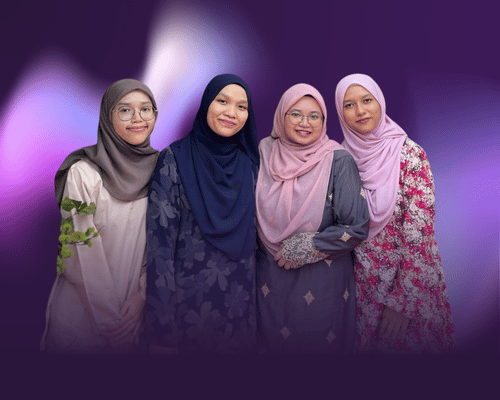
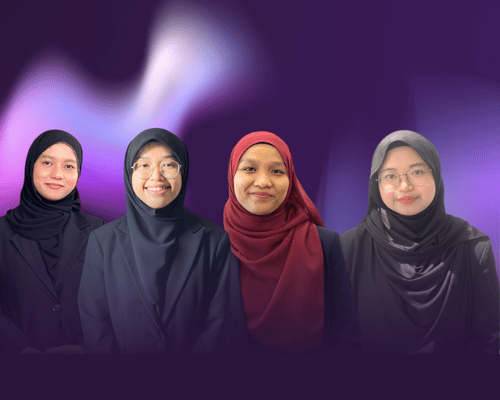
added auto-refetch switch

diff --git a/app/vote/result/page.tsx b/app/vote/result/page.tsx
@@ -9,6 +9,8 @@ import { MditAuroraSubtle } from "@/components/optimized-react-bits";
 import { Button } from "@/components/ui/button";
 import Image from "next/image";
 import { Badge } from "@/components/ui/badge";
+import { Switch } from "@/components/ui/switch";
+import { Label } from "@/components/ui/label";
 import {
   Trophy,
   Users,
@@ -65,6 +67,7 @@ const VoteResult = () => {
   const [statistics, setStatistics] = useState<VotingStatistics | null>(null);
   const [isLoading, setIsLoading] = useState(true);
   const [lastUpdated, setLastUpdated] = useState<Date | null>(null);
+  const [autoRefresh, setAutoRefresh] = useState(true);
 
   const {
     isWebGLSupported,
@@ -150,10 +153,12 @@ const VoteResult = () => {
 
   useEffect(() => {
     fetchResults();
-    // Auto-refresh every 30 seconds
-    const interval = setInterval(fetchResults, 30000);
-    return () => clearInterval(interval);
-  }, []);
+    // Auto-refresh every 30 seconds only if autoRefresh is enabled
+    if (autoRefresh) {
+      const interval = setInterval(fetchResults, 30000);
+      return () => clearInterval(interval);
+    }
+  }, [autoRefresh]);
 
   const getCategoryIcon = (category: string) => {
     switch (category) {
@@ -410,7 +415,7 @@ const VoteResult = () => {
 
         {/* Refresh Button and Last Updated */}
         <BlurFade inView delay={0.3}>
-          <div className="flex items-center justify-between mb-6">
+          <div className="flex flex-col sm:flex-row items-start sm:items-center justify-between gap-4 mb-6">
             <div className="flex items-center gap-2 text-sm text-muted-foreground">
               {lastUpdated && (
                 <>
@@ -421,25 +426,50 @@ const VoteResult = () => {
                 </>
               )}
             </div>
-            <Button
-              variant="outline"
-              size="sm"
-              onClick={fetchResults}
-              disabled={isLoading}
-              className="gap-2"
-            >
-              {isLoading ? (
-                <>
-                  <Loader2 className="h-4 w-4 animate-spin" />
-                  Refreshing...
-                </>
-              ) : (
-                <>
-                  <RefreshCw className="h-4 w-4" />
-                  Refresh Results
-                </>
-              )}
-            </Button>
+            <div className="flex items-center gap-4">
+              {/* Auto-refresh Toggle */}
+              <div className="flex items-center space-x-2">
+                <Switch
+                  id="auto-refresh"
+                  checked={autoRefresh}
+                  onCheckedChange={(checked: boolean) => {
+                    setAutoRefresh(checked);
+                    toast.info(
+                      checked
+                        ? "Auto-refresh enabled (every 30s)"
+                        : "Auto-refresh disabled"
+                    );
+                  }}
+                />
+                <Label
+                  htmlFor="auto-refresh"
+                  className="text-sm font-medium cursor-pointer"
+                >
+                  Auto-refresh
+                </Label>
+              </div>
+
+              {/* Manual Refresh Button */}
+              <Button
+                variant="outline"
+                size="sm"
+                onClick={fetchResults}
+                disabled={isLoading}
+                className="gap-2"
+              >
+                {isLoading ? (
+                  <>
+                    <Loader2 className="h-4 w-4 animate-spin" />
+                    Refreshing...
+                  </>
+                ) : (
+                  <>
+                    <RefreshCw className="h-4 w-4" />
+                    Refresh
+                  </>
+                )}
+              </Button>
+            </div>
           </div>
         </BlurFade>
 

diff --git a/components/ui/switch.tsx b/components/ui/switch.tsx
@@ -1,0 +1,29 @@
+"use client";
+
+import * as React from "react";
+import * as SwitchPrimitives from "@radix-ui/react-switch";
+
+import { cn } from "@/lib/utils";
+
+const Switch = React.forwardRef<
+  React.ElementRef<typeof SwitchPrimitives.Root>,
+  React.ComponentPropsWithoutRef<typeof SwitchPrimitives.Root>
+>(({ className, ...props }, ref) => (
+  <SwitchPrimitives.Root
+    className={cn(
+      "peer inline-flex h-6 w-11 shrink-0 cursor-pointer items-center rounded-full border-2 border-transparent transition-colors focus-visible:outline-none focus-visible:ring-2 focus-visible:ring-ring focus-visible:ring-offset-2 focus-visible:ring-offset-background disabled:cursor-not-allowed disabled:opacity-50 data-[state=checked]:bg-primary data-[state=unchecked]:bg-input",
+      className
+    )}
+    {...props}
+    ref={ref}
+  >
+    <SwitchPrimitives.Thumb
+      className={cn(
+        "pointer-events-none block h-5 w-5 rounded-full bg-background shadow-lg ring-0 transition-transform data-[state=checked]:translate-x-5 data-[state=unchecked]:translate-x-0"
+      )}
+    />
+  </SwitchPrimitives.Root>
+));
+Switch.displayName = SwitchPrimitives.Root.displayName;
+
+export { Switch };

diff --git a/app/vote/(votemain)/page.tsx b/app/vote/(votemain)/page.tsx
@@ -33,6 +33,7 @@ import {
 import { toast } from "sonner";
 
 import Image from "next/image";
+import Link from "next/link";
 
 const formSchema = z.object({
   icNumber: z
@@ -365,6 +366,13 @@ const VotingPage = () => {
             </Form>
           </CardContent>
         </Card>
+      </BlurFade>
+      <BlurFade delay={0.3} className="w-full max-w-md mx-auto mt-6">
+        <Text as="p">
+          <Link href="/vote/guest" className="underline">
+            Vote as a guest
+          </Link>
+        </Text>
       </BlurFade>
       <BlurFade delay={0.35} className="w-full max-w-md mx-auto">
         <Card className="w-full max-w-md mx-auto mt-6 bg-blue-50 dark:bg-blue-950 border-blue-200 dark:border-blue-800">
